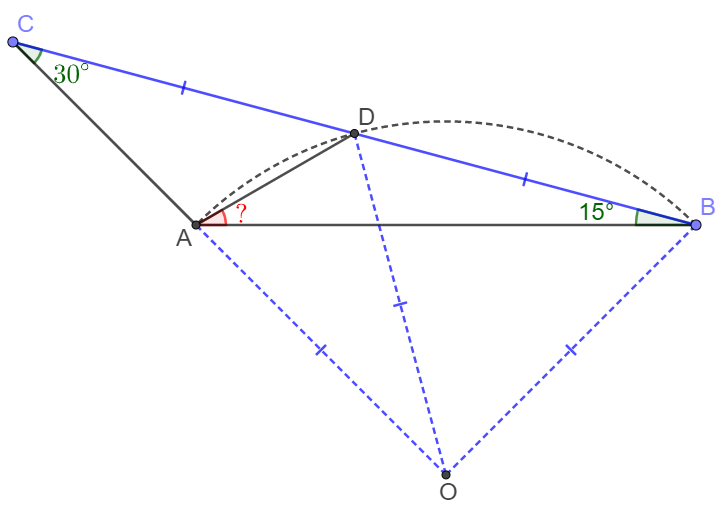
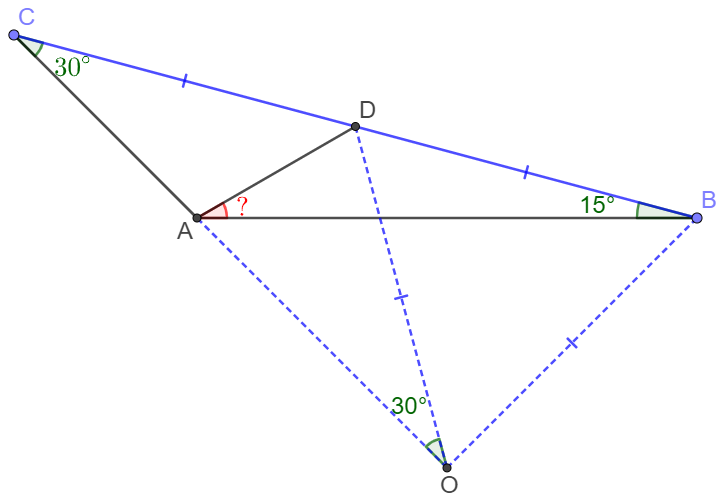
Add posts

diff --git a/_posts/2021-04-01-geometry-problems.md b/_posts/2021-04-01-geometry-problems.md
@@ -86,13 +86,21 @@ $\implies 2AC=AC-DI+AB=OI-DI+AB=OD+AB=CD+AB\blacksquare$
 
 **Solve:**
 
+![image-20210402191737616](E:\workspace\mwo\assets\images\2021-04\image-20210402151917804.png)
+
 ![image-20210402151917804](/assets/images/2021-04/image-20210402151917804.png){:class="image--x2l"}
 
-Let $O$ be the center of circum-circle of $\triangle{ABD} \implies AO=BO=DO$
+Extend $CA$ to $O$ so that $\angle{AOD}=30^{\circ} \implies CD=OD=DB$
 
-$\angle{ABD}=15^{\circ} \implies \angle{AOD}=30^{\circ}=\angle{ACD} \implies CD=DO $
+And $\angle{ODB}=60^{\circ} \implies \triangle{ODB}$ is equilateral
 
-$\implies CD=DB=DO=BO \implies \triangle{BOD}$ is equilateral
+$\implies \angle{DBO}=\angle{DOB}=60^{\circ} \implies \angle{ABO}=45^{\circ}, \angle{AOB}=90^{\circ}$
 
-$\implies \angle{BOD}=60^{\circ} \implies \angle{BAD}=\boxed{30^{\circ}}$
+$\implies \angle{OAB}=180^{\circ}-90^{\circ}-45^{\circ}=45^{\circ} \implies \angle{OAB}=\angle{ABO}$
+
+$\implies AO=BO=DO \implies \angle{DAO}=75^{\circ}$
+
+$\implies \angle{DAB}=75^{\circ}-45^{\circ}=\boxed{30^{\circ}}$
+
+---
 
